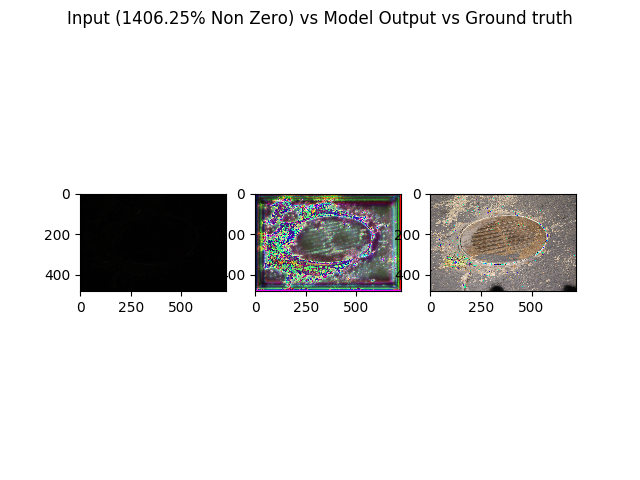
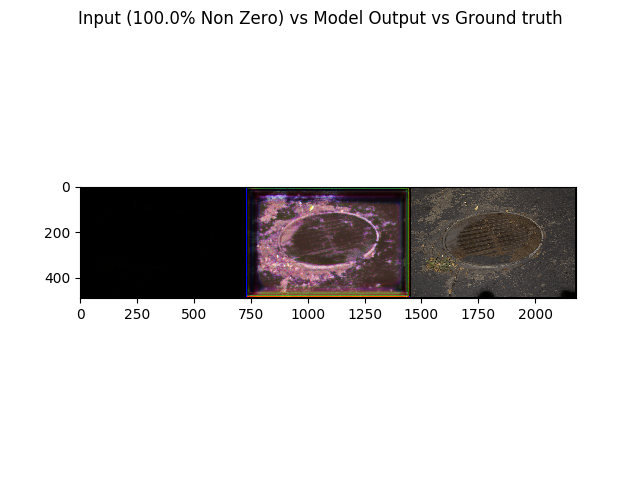
minor

diff --git a/gan_train_Sony_pytorch.py b/gan_train_Sony_pytorch.py
@@ -496,7 +496,7 @@ def trainAndTestModel(name):
                 
                 # plt.imshow(np.transpose(vutils.make_grid(real_batch[0].to(device)[:64], padding=5, normalize=True).cpu(),(1,2,0)))
 
-                plt.imshow(np.transpose( vutils.make_grid([in_images_py[i], outputs_py[i], exp_images_py[i]], padding=5, normalize=True)) , (1,2,0))
+                plt.imshow(np.transpose( vutils.make_grid([in_images_py[i], outputs_py[i], exp_images_py[i]], padding=5, normalize=True) , (1,2,0)))
 
                 # axarr[0].imshow(trans(in_images_py[i]))
                 # axarr[1].imshow(trans(outputs_py[i]))
